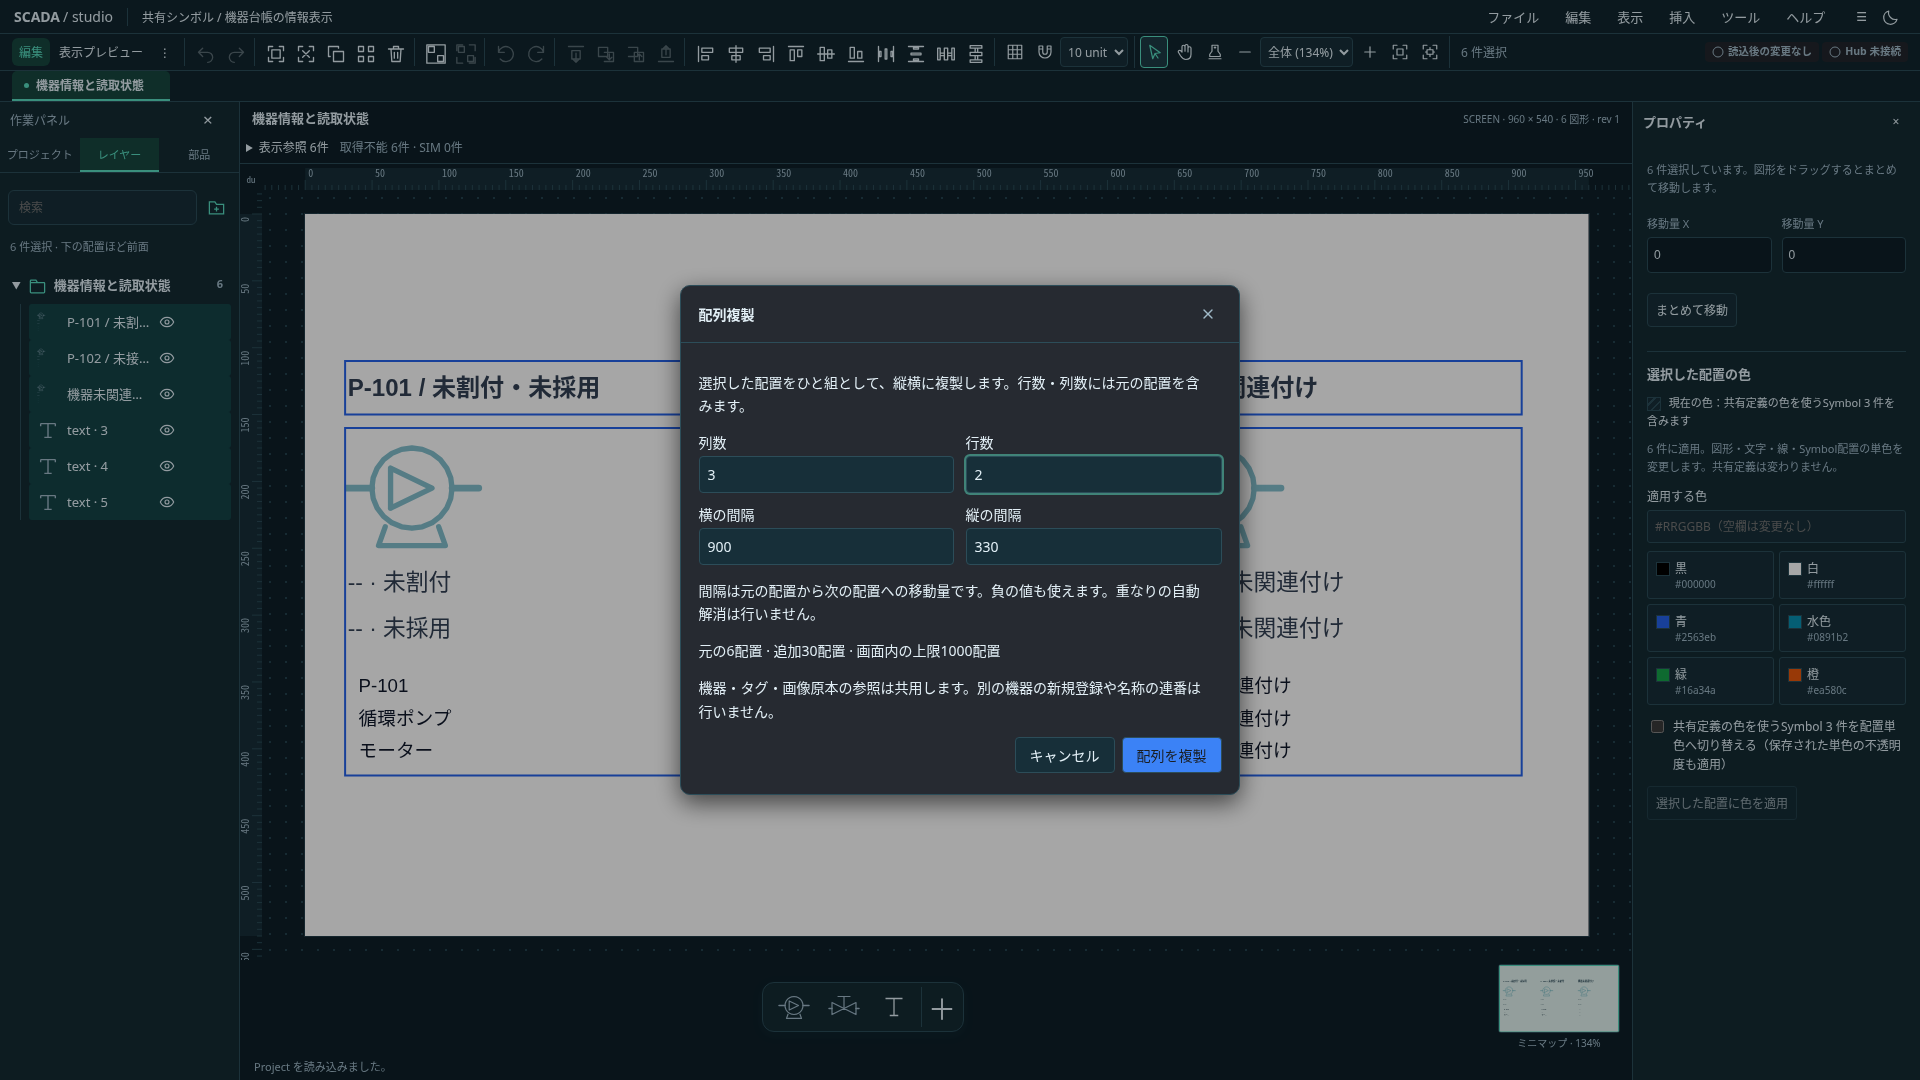
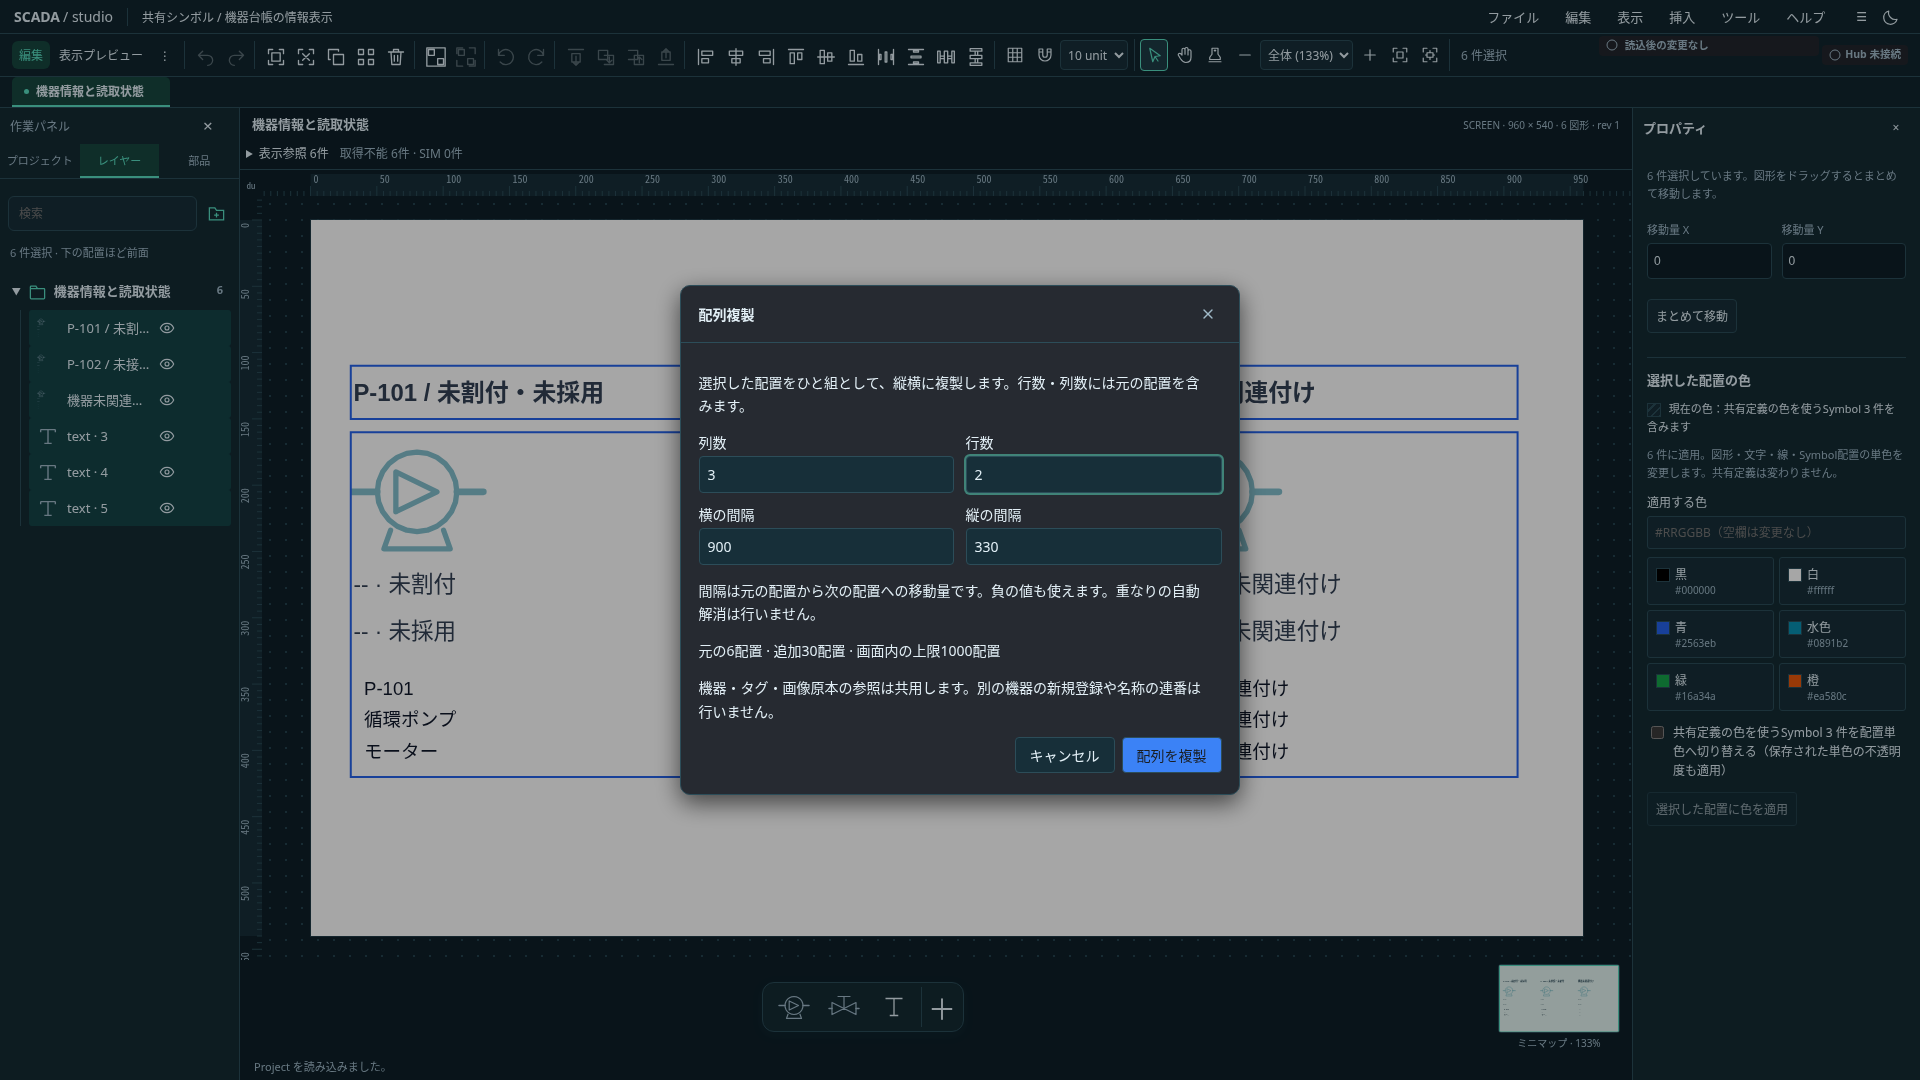
fix(scada): 保存状態の更新中もツールバーの高さを保つ

diff --git a/apps/banto-scada/src/App.svelte b/apps/banto-scada/src/App.svelte
@@ -2879,14 +2879,19 @@
       data-testid="save-state"
       role="group"
       aria-label="保存状態"
-      title={lastExport ? `最終書き出し要求 ${lastExport}` : saveLabel}
+      title={`${saveLabel}${drafts.dirty ? ` · 未適用の入力あり · ${drafts.count} フォーム` : ""}${lastExport ? ` · 最終書き出し要求 ${lastExport}` : ""}`}
     >
-      <StatusBadge
-        variant={projectChanged ? "warning" : "neutral"}
-        label={saveLabel}
-      />
-      {#if drafts.dirty}<span>未適用の入力あり · {drafts.count} フォーム</span
-        >{/if}
+      <div class="save-label">
+        <StatusBadge
+          variant={projectChanged ? "warning" : "neutral"}
+          label={saveLabel}
+        />
+      </div>
+      <span class="draft-state" aria-live="polite"
+        >{drafts.dirty
+          ? `未適用の入力あり · ${drafts.count} フォーム`
+          : ""}</span
+      >
       {#if lastExport}<span class="sr-only">最終書き出し要求 {lastExport}</span
         >{/if}
     </div>
@@ -3533,7 +3538,10 @@
     レイヤーのフォルダーは整理用で、座標・描画順・表示・ロックを継承しません。検索中は結果を一時展開し、解除すると開閉状態を戻します。配置の右クリック「配置の所属を変更」で移動先・ルートを選べます。新規配置と貼り付けは常にルートです。フォルダー行のF2は改名、Deleteは空削除の確認を開き、以前の配置選択を変更しません。
   </p>
   <p>
-    「中心を水平方向／垂直方向に等間隔」は3件以上で使えます。両端の中心を固定し、中間の配置だけを動かします。「隙間を水平方向／垂直方向に均等化」は回転後の外形間の隙間を揃え、両端を固定します。グループは一単位です。両端の間に収まらない場合は変更しません。どちらもスナップで丸めず、小数座標も保存します。中心等間隔では、サイズが違う配置の重なりが残る場合があります。
+    「中心を水平方向／垂直方向に等間隔」は3単位以上で使えます。両端の中心を固定し、中間の配置だけを動かします。「隙間を水平方向／垂直方向に均等化」は回転後の外形間の隙間を揃え、両端を固定します。グループは一単位です。両端の間に収まらない場合は変更しません。どちらもスナップで丸めず、小数座標も保存します。中心等間隔では、サイズが違う配置の重なりが残る場合があります。
+  </p>
+  <p>
+    「配列複製」は選択した配置を一組として、指定した行数・列数と間隔で複製します。行数・列数には元の組を含み、全体を一回のUndoで戻せます。グループは組ごとに独立します。機器・タグ・画像原本は同じ参照を使い、別の機器登録や名称の連番は行いません。
   </p>
   <p>
     レイヤーの錠アイコンで配置の編集をロックします。ロック中はキャンバスの選択・移動やプロパティ変更を防ぎ、レイヤーで選択してコピー・解除できます。ロックは権限ではなく、参照する共有定義の変更・Undo／Redo・画面全体の管理は引き続き反映されます。コピー・貼り付けはロック状態を保持します。
@@ -3710,13 +3718,38 @@
     color: var(--banto-text-muted);
   }
   .save-state {
-    display: flex;
-    flex-wrap: wrap;
-    align-items: center;
-    gap: 6px;
+    display: grid;
+    grid-template-columns: minmax(0, 1fr);
+    grid-template-rows: 24px 14px;
+    flex: 0 0 220px;
+    width: 220px;
+    height: 38px;
     font-size: 11px;
     color: var(--banto-text-muted);
     margin-left: auto;
+  }
+  .save-label {
+    min-width: 0;
+    overflow: hidden;
+  }
+  .save-label :global(.status-badge) {
+    box-sizing: border-box;
+    display: block;
+    max-width: 100%;
+    overflow: hidden;
+    text-overflow: ellipsis;
+  }
+  .save-label :global(.status-badge svg) {
+    display: inline-block;
+    vertical-align: -2px;
+    margin-right: 4px;
+  }
+  .draft-state {
+    min-width: 0;
+    overflow: hidden;
+    white-space: nowrap;
+    text-overflow: ellipsis;
+    line-height: 14px;
   }
   .sr-only {
     position: absolute;

diff --git a/e2e/toolbar-status-layout.spec.ts b/e2e/toolbar-status-layout.spec.ts
@@ -1,0 +1,43 @@
+import { test, expect } from "@playwright/test";
+import { selectPanel, chooseTheme, fileCommand } from "./helpers/designer";
+for (const theme of ["light", "dark"] as const)
+  test(`save and draft state preserve toolbar height across viewport widths in ${theme}`, async ({
+    page,
+  }) => {
+    await page.setViewportSize({ width: 1920, height: 1080 });
+    await page.goto("/");
+    await page.getByRole("button", { name: "編集", exact: true }).click();
+    await chooseTheme(page, theme);
+    await selectPanel(page, "レイヤー");
+    await page
+      .getByRole("navigation", { name: "図形一覧", exact: true })
+      .getByRole("button", { name: "rectangle · 3", exact: true })
+      .click();
+    await page.evaluate(() => document.fonts.ready);
+    const toolbar = page.getByRole("toolbar", {
+        name: "共通編集ツールバー",
+        exact: true,
+      }),
+      status = page.getByTestId("save-state"),
+      x = page.getByLabel("x", { exact: true });
+    const height = () =>
+      toolbar.evaluate((el) => el.getBoundingClientRect().height);
+    for (const [index, width] of [
+      1920, 1840, 1760, 1680, 1600, 1440, 1280, 1100, 900, 650,
+    ].entries()) {
+      await page.setViewportSize({ width, height: 1080 });
+      const baseline = await height();
+      await x.fill(String(320 + index));
+      await expect(status).toContainText("未適用の入力あり");
+      expect(await height(), `draft at ${width}px`).toBe(baseline);
+      await x.press("Enter");
+      await expect(status).not.toContainText("未適用の入力あり");
+      expect(await height(), `commit at ${width}px`).toBe(baseline);
+    }
+    const before = await height(),
+      pending = page.waitForEvent("download");
+    await fileCommand(page, "Project を保存");
+    await pending;
+    await expect(status).toContainText("書き出し要求後の変更なし");
+    expect(await height()).toBe(before);
+  });

diff --git a/apps/banto-scada/src/lib/designer/ScreenViewDialog.svelte b/apps/banto-scada/src/lib/designer/ScreenViewDialog.svelte
@@ -53,7 +53,7 @@
     {#if !visible.length}<p>一致する画面がありません。</p>{/if}
   </div>
   <p class="note">
-    入れ子・画面内の操作・Viewを含むコピーは初期範囲では使えません。配置の複製は使えます。
+    参照画面・共有定義・画像原本を含めたコピーに対応しています。機器の関連付けを含むコピー、入れ子、埋込画面内の操作は未対応です。
   </p>
   <div class="actions">
     <button onclick={onclose}>キャンセル</button><button

diff --git a/docs/implementation-history.md b/docs/implementation-history.md
@@ -1371,3 +1371,13 @@ Astraレビューを[矩形・楕円の枠線一括編集](selection-outline-des
 ## 隙間均等化後のツールバーCI修正
 
 `e60d80b`の[CI](https://github.com/tyaro/temp-scada/actions/runs/39409515458)はfrontend・Rust・E2E3区画が成功し、1区画の既存ツールバー試験が失敗した。End／Homeから左への循環で最後の操作を中心等間隔と固定していたため。新たな最後の操作「隙間を垂直方向に均等化」へ期待を更新し、狭い幅での可視性も追加する。無効項目のスキップ・編集入力へのHome非干渉・操作実行の検証は維持する。判定や待機時間を緩めない。
+
+## 作図操作の画面案内を現行範囲へ更新
+
+埋込Viewの追加ダイアログに残っていた「Viewを含むコピーは未対応」を、依存画面・共有定義・原本を含めるclipboard v4の対応へ更新した。機器の関連付けを含むコピー・入れ子・埋込内操作の制約は維持する。操作ガイドの中心等間隔はグループを含む「単位」で数える表記とし、配列複製の組数・Undo・参照共用も案内する。モデル・操作の変更はない。
+
+## 配列追加後の保存状態によるtoolbar折返しを修正
+
+`797327d`の[CI](https://github.com/tyaro/temp-scada/actions/runs/39411678090)はfrontend・Rust・新しい配列試験を含むE2E2区画が成功したが、既存数値2件と範囲選択1件が失敗した。Astraがtraceで、dirtyの長い保存状態による2段化と、blur確定で1段へ戻る位置移動を特定。配列ボタン1個の追加で折返し境界を超えていた。クリック中の対象移動・古いhandle位置・viewport変更による範囲取消という実操作上の問題で、取消保護や待機を緩めず直す。
+
+保存状態を固定幅220px、高さ38px（badge24px＋常設dirty行14px）へ変更した。長い表示は省略し、全文DOMとtitle・読み上げ通知を維持する。新回帰は修正前1840pxで37→59.9375pxに変化して両テーマ失敗し、修正後は両テーマの10幅（1920〜650px）でdirty／確定時の高さ不変、最後の650pxで保存後の高さ不変を確認した。既存数値・範囲・toolbarと合わせた18件が2workersで成功。型エラー／警告0・buildも成功。

diff --git a/docs/implementation-status.md b/docs/implementation-status.md
@@ -243,3 +243,7 @@ Viewの選択に参照画面・必要Symbol・画像原本を同梱し、同じP
 [配列複製](array-copy-design.md)を共通ツールバーと選択メニューへ追加した。元の組を含む行数・列数とピッチを指定し、配置数を事前表示する。独立したgroup／stateColor ID再対応、既存の参照共用、draft解決後の対象固定、入力取消と一回のUndoを共用する。連番・別機器の登録・円形配列は後続。保存契約は0.31.0のまま。
 
 検証: TS1,021件（91ファイル）、型エラー／警告0、本番build・全体整形が成功。新規7件と既存グループ10件のブラウザ17件に加え、共有定義上限の文言を再確認した。画像asset／crop保持、機器metadata、組ごとのgroup／stateColor、埋込32件制限を超えた全体拒否・履歴保持を含む。Astraレビューの必須修正なし。両テーマの実画面を記録した。保存モデル・Rustの変更はない。隙間均等化のCIは末尾操作の期待を修正した`e92ca2c`で[全体成功](https://github.com/tyaro/temp-scada/actions/runs/39410834776)。
+
+## 保存状態による作業領域の位置ずれ修正
+
+保存状態とdirty件数の領域を固定し、入力の確定中にtoolbarの段数・高さが変わらないようにした。CI traceと修正前に失敗する回帰で特定し、未適用数値のblurに伴うレイヤークリック消失・resize開始失敗・範囲選択の取消を防ぐ。型・build・関連ブラウザ18件が成功。詳しい失敗と再現の条件は[履歴](implementation-history.md)に記録する。
